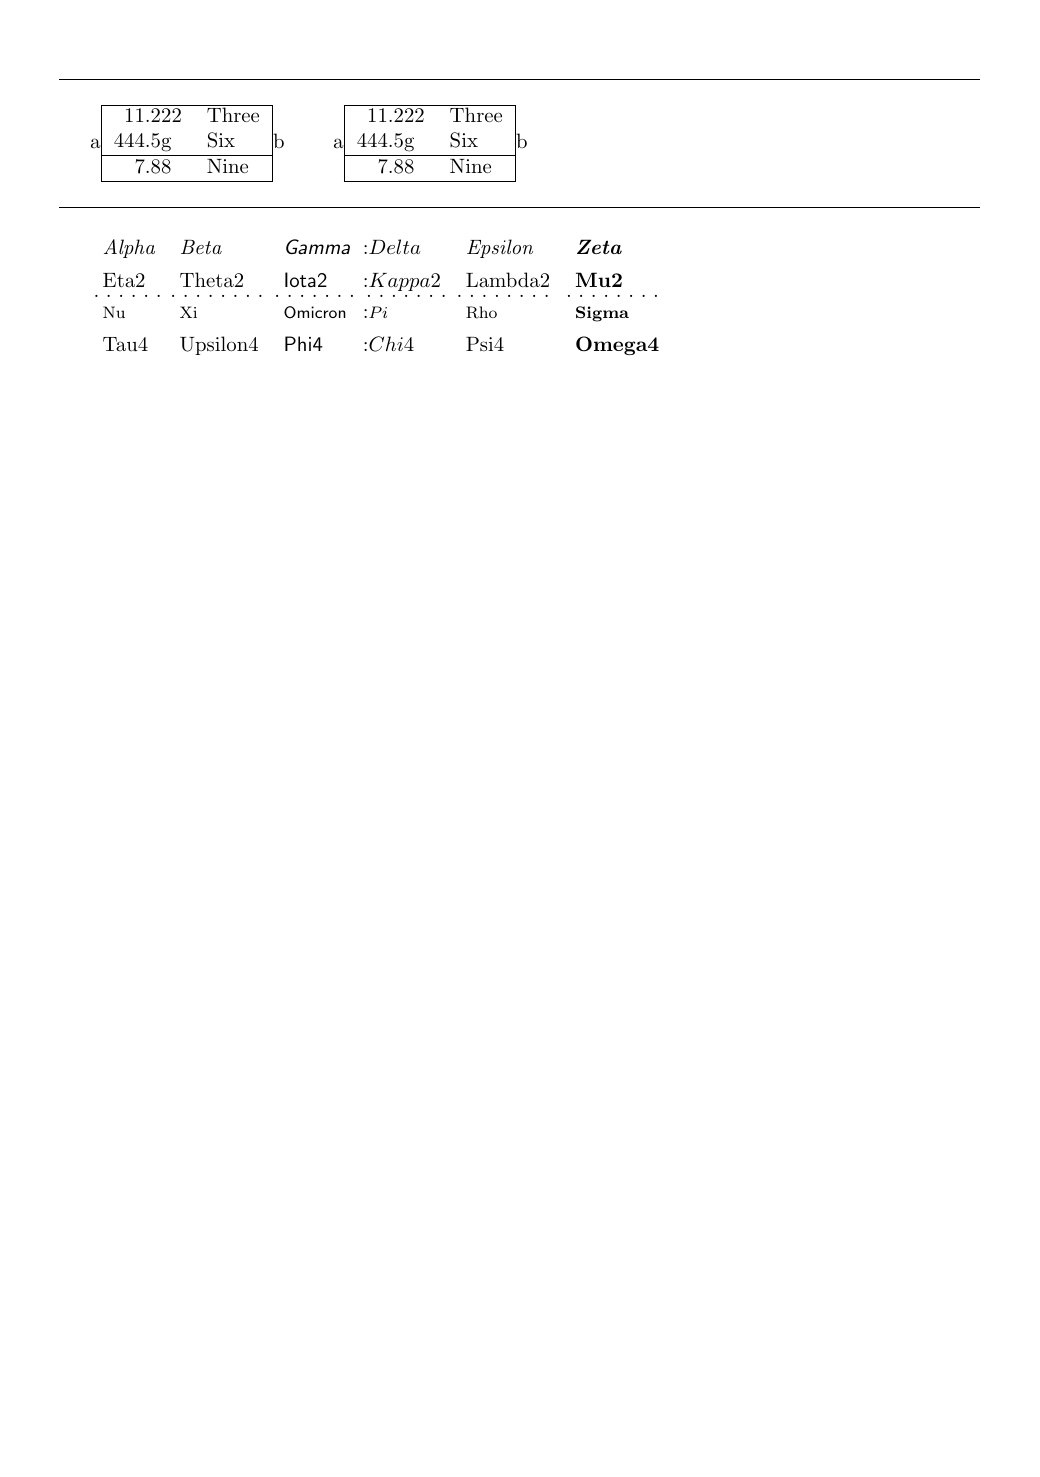
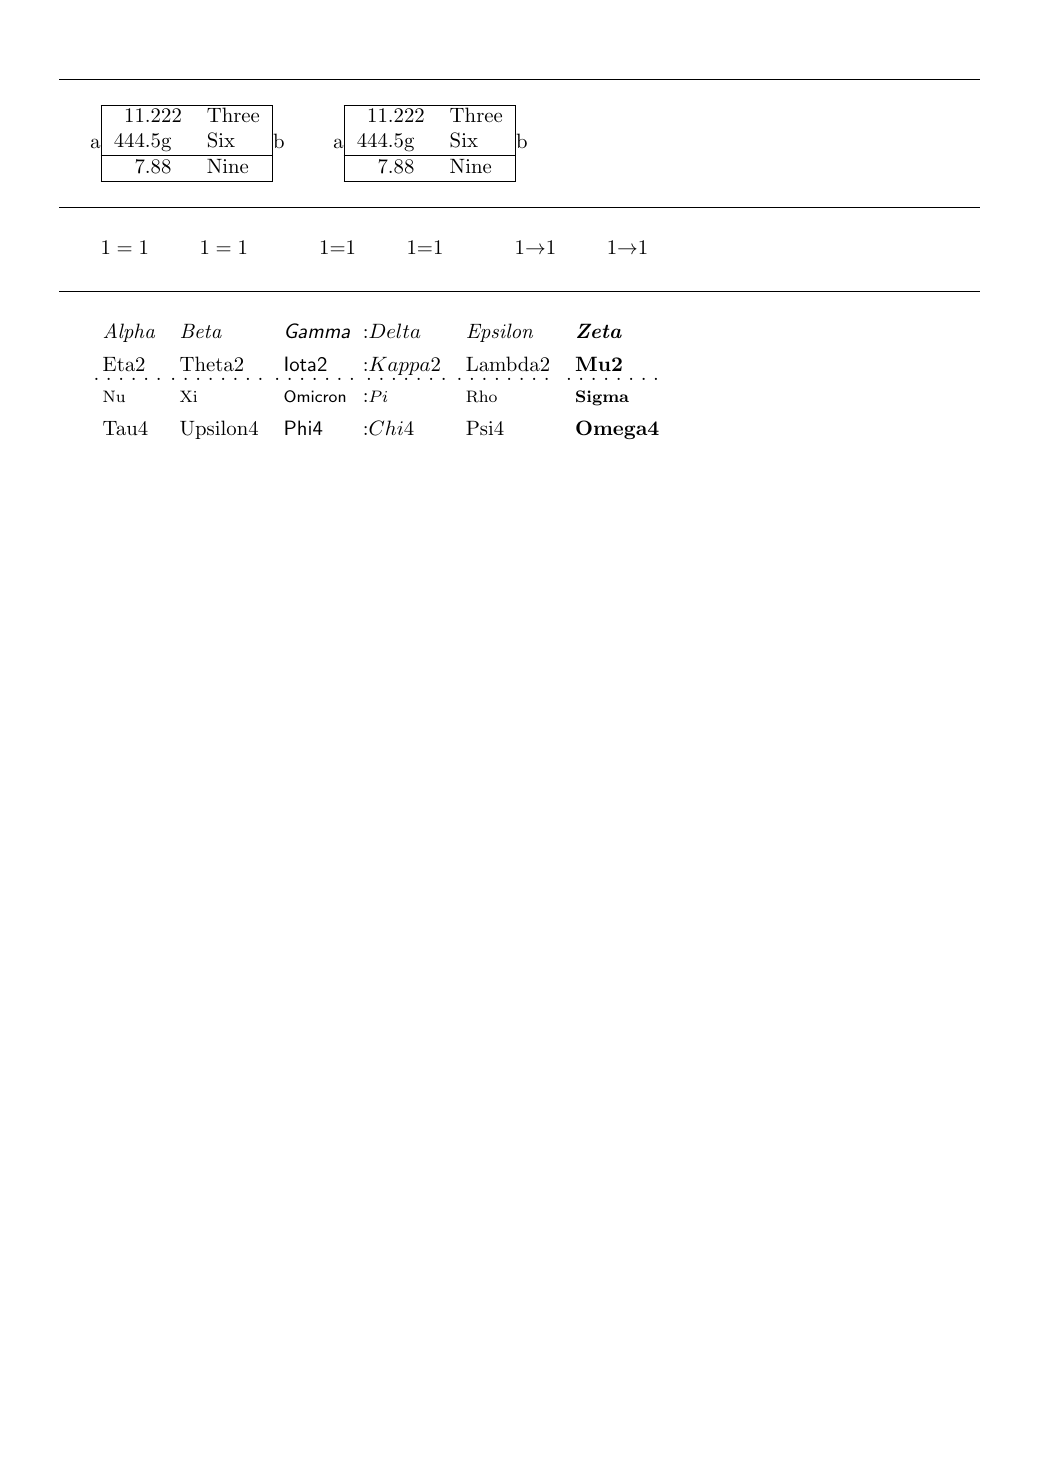
update test files for issue #138

diff --git a/testfiles/rowcol-001.tex b/testfiles/rowcol-001.tex
@@ -42,6 +42,34 @@ a\begin{tblr}{|r@{.}ll|}
 
 \bigskip\hrule\bigskip
 
+\BEGINTEST{testing @ expression in math mode}% see #138
+$\begin{array}{r @{{}={}} l}
+1 & 1
+\end{array}$
+\quad
+$\begin{tblr}{r @{{}={}} l}
+1 & 1
+\end{tblr}$
+\qquad
+$\begin{array}{r @{${}={}$} l}
+1 & 1
+\end{array}$
+\quad
+$\begin{tblr}{r @{${}={}$} l}
+1 & 1
+\end{tblr}$
+\qquad
+$\begin{array}{r @{\rightarrow} l}
+1 & 1
+\end{array}$
+\quad
+$\begin{tblr}{r @{\rightarrow} l}
+1 & 1
+\end{tblr}$
+\ENDTEST
+
+\bigskip\hrule\bigskip
+
 \BEGINTEST{testing !, < and > specifiers}
 \begin{tblr}{
   colspec={ll>{\sffamily}l!{:}>[0pt]{$}l<{$}l>{\bfseries}l},
